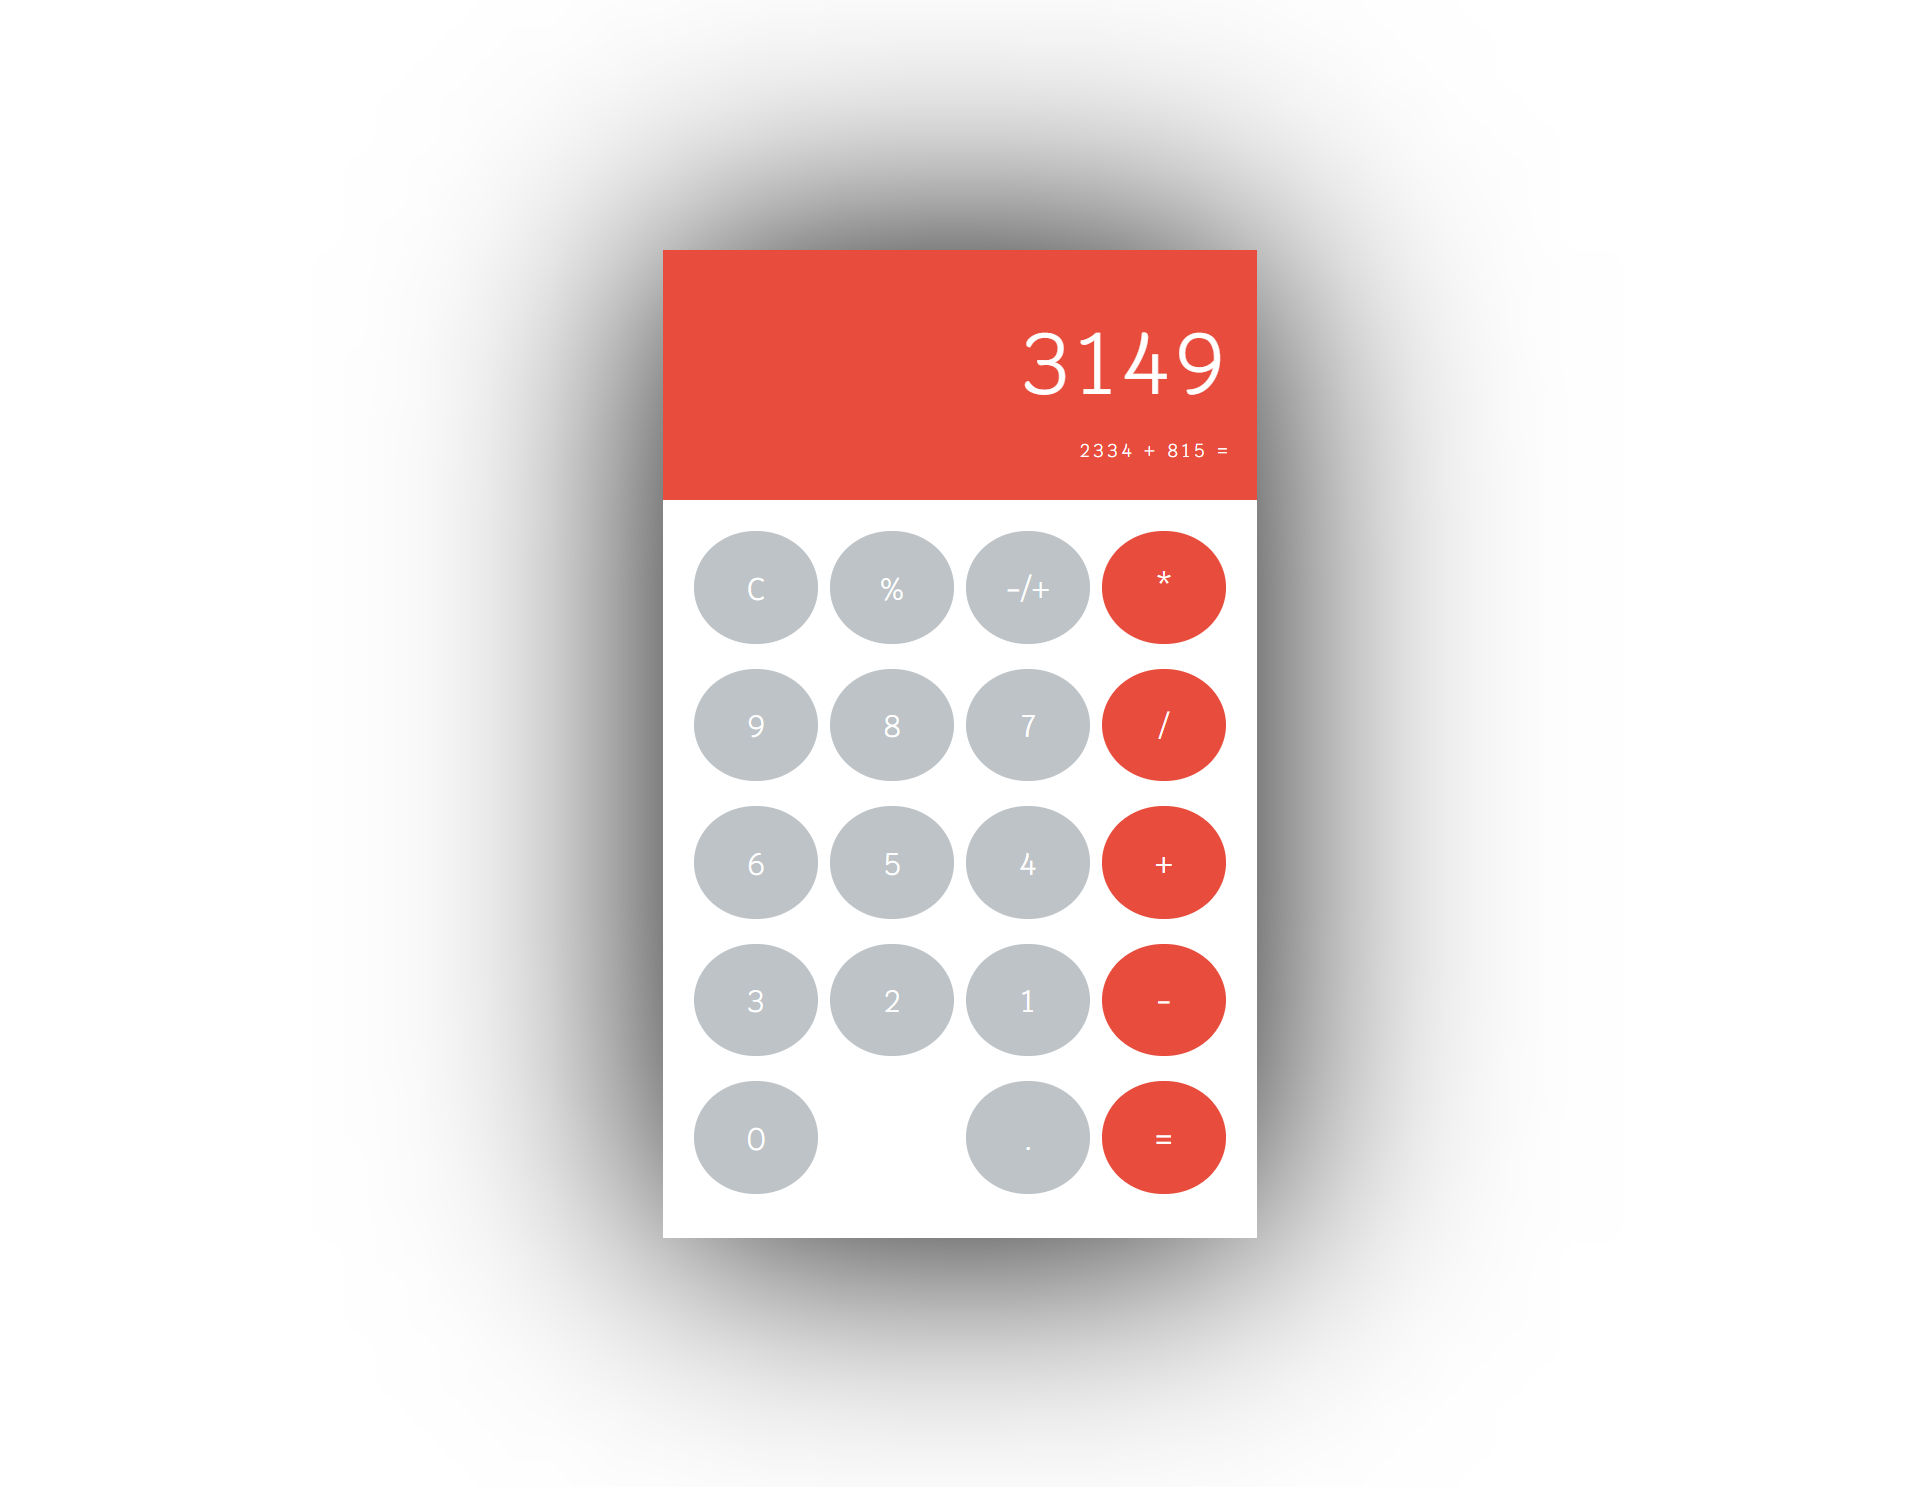
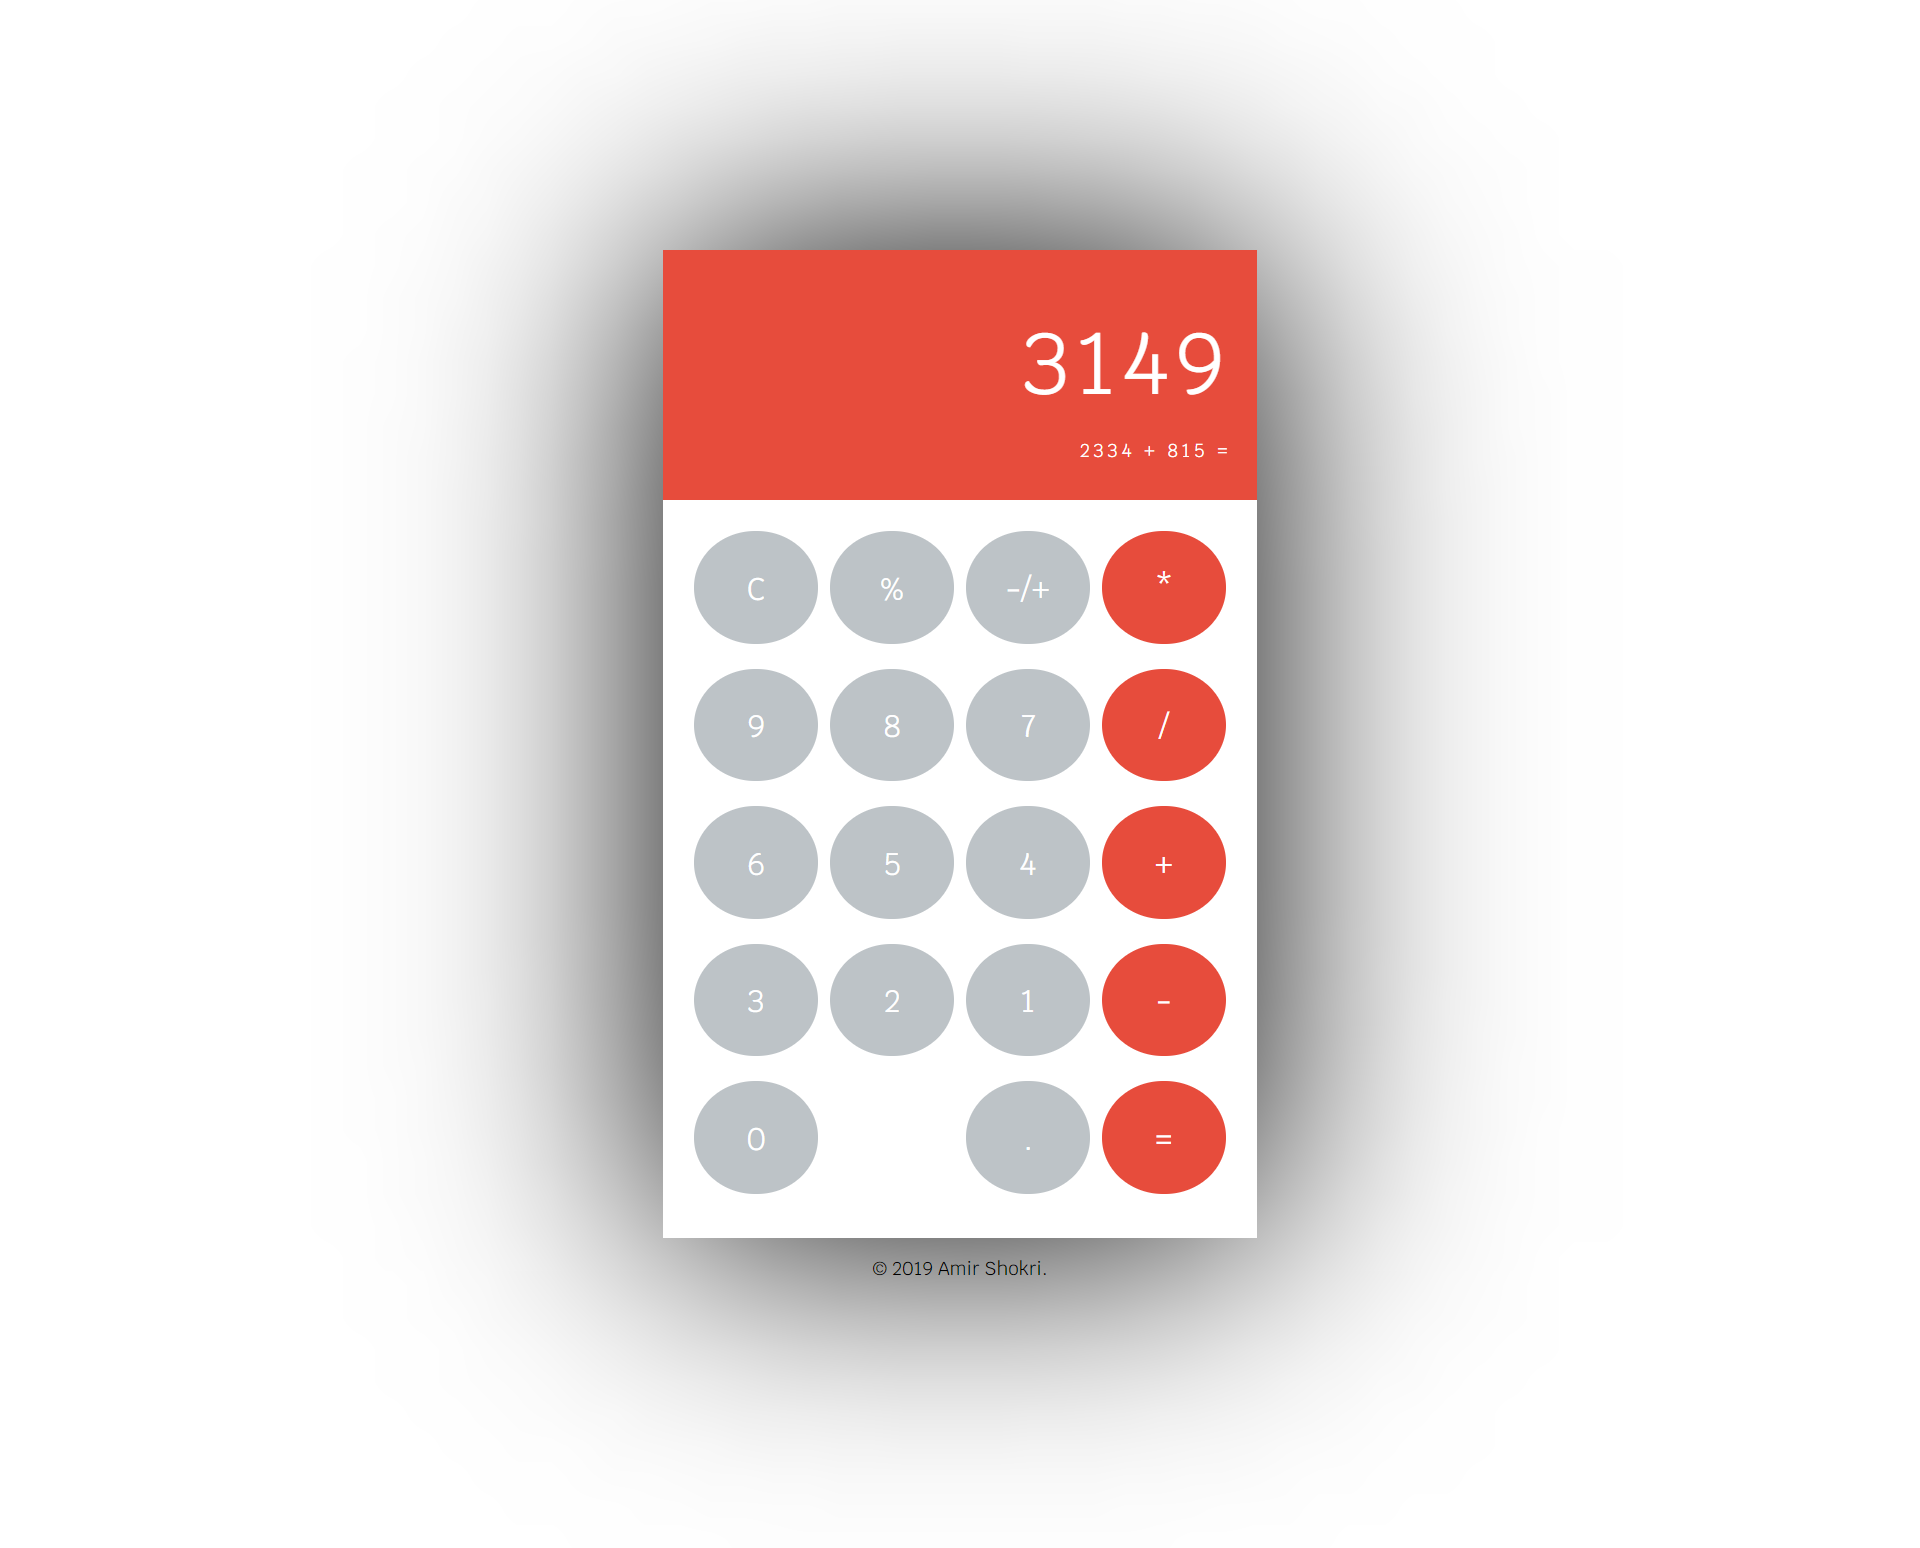
commit #9
create project navigation in index.html

Changed region(s): [[0.3438, 0.2165, 0.6562, 0.928], [0.3438, 0.1547, 0.6562, 0.1856]]

diff --git a/index.html b/index.html
@@ -14,6 +14,129 @@
 	<div class="ui-index left-to-right krub-regular d-block">
 
 		<!-- Page Content -->
+		<div class="container">
+			<div class="row">
+				<div class="col-12">
+					<h1><span class="fab fa-lx fa-github"></span> Daily-Ui</h1>
+					<hr />
+					<p>Daily Ui Challenge (100)</p>
+
+					<br />
+					<strong>Info :</strong>
+					<ul>
+						<li>Author : [<a href="mailto:amirsh.nll@gmail.com" title="Amir shokri">Amir shokri</a>]</li>
+						<li>My Dribbble : [<a href="https://dribbble.com/amirsh_nll" title="Dribbble">www.dribbble.com/amirsh_nll</a>]</li>
+						<li>Daily Ui : [<a href="http://www.dailyui.co/" title="Daily UI">www.dailyui.co</a>]</li>
+					</ul>
+
+					<br />
+					<strong>Challenge List :</strong>
+					<ul>
+						<li><a href="001_sign_up.html" title="Daily UI 001">1. Sign Up</a></li>
+						<li><a href="002_credit_card_checkout.html" title="Daily UI 002">2. Credit Card Checkout</a></li>
+						<li><a href="003_landing_page.html" title="Daily UI 003">3. Landing Page</a></li>
+						<li><a href="004_calculator.html" title="Daily UI 004">4. Calculator</a></li>
+						<li><a href="#" title="Daily UI 005">5. App Icon</a></li>
+						<li><a href="#" title="Daily UI 006">6. User Profile</a></li>
+						<li><a href="#" title="Daily UI 007">7. Settings</a></li>
+						<li><a href="#" title="Daily UI 008">8. 404 page</a></li>
+						<li><a href="#" title="Daily UI 009">9. Music Player</a></li>
+						<li><a href="#" title="Daily UI 010">10. Social Share</a></li>
+						<li><a href="#" title="Daily UI 011">11. Flash Message</a></li>
+						<li><a href="#" title="Daily UI 012">12. E-Commerce Shop</a></li>
+						<li><a href="#" title="Daily UI 013">13. Direct Messaging</a></li>
+						<li><a href="#" title="Daily UI 014">14. Countdown Timer</a></li>
+						<li><a href="#" title="Daily UI 015">15. On/Off Switch</a></li>
+						<li><a href="#" title="Daily UI 016">16. Pop-Up / Overlay</a></li>
+						<li><a href="#" title="Daily UI 017">17. Email Receipt</a></li>
+						<li><a href="#" title="Daily UI 018">18. Analytics Chart</a></li>
+						<li><a href="#" title="Daily UI 019">19. Leaderboard</a></li>
+						<li><a href="#" title="Daily UI 020">20. Location Tracker</a></li>
+						<li><a href="#" title="Daily UI 021">21. Home Monitoring Dashboard</a></li>
+						<li><a href="#" title="Daily UI 022">22. Search</a></li>
+						<li><a href="#" title="Daily UI 023">23. Onboarding</a></li>
+						<li><a href="#" title="Daily UI 024">24. Boarding Pass</a></li>
+						<li><a href="#" title="Daily UI 025">25. TV App</a></li>
+						<li><a href="#" title="Daily UI 026">26. Subscribe</a></li>
+						<li><a href="#" title="Daily UI 027">27. Dropdown</a></li>
+						<li><a href="#" title="Daily UI 028">28. Contact Us</a></li>
+						<li><a href="#" title="Daily UI 029">29. Map</a></li>
+						<li><a href="#" title="Daily UI 030">30. Pricing</a></li>
+						<li><a href="#" title="Daily UI 031">31. File Upload</a></li>
+						<li><a href="#" title="Daily UI 032">32. Crowdfunding Campaign</a></li>
+						<li><a href="#" title="Daily UI 033">33. Customize Product</a></li>
+						<li><a href="#" title="Daily UI 034">34. Car Interface</a></li>
+						<li><a href="#" title="Daily UI 035">35. Blog Post</a></li>
+						<li><a href="#" title="Daily UI 036">36. Special Offer</a></li>
+						<li><a href="#" title="Daily UI 037">37. Weather</a></li>
+						<li><a href="#" title="Daily UI 038">38. Calendar</a></li>
+						<li><a href="#" title="Daily UI 039">39. Testimonials</a></li>
+						<li><a href="#" title="Daily UI 040">40. Recipe</a></li>
+						<li><a href="#" title="Daily UI 041">41. Workout Tracker</a></li>
+						<li><a href="#" title="Daily UI 042">42. ToDo List</a></li>
+						<li><a href="#" title="Daily UI 043">43. Food/Drink Menu</a></li>
+						<li><a href="#" title="Daily UI 044">44. Favorites</a></li>
+						<li><a href="#" title="Daily UI 045">45. Info Card</a></li>
+						<li><a href="#" title="Daily UI 046">46. Invoice</a></li>
+						<li><a href="#" title="Daily UI 047">47. Activity Feed</a></li>
+						<li><a href="#" title="Daily UI 048">48. Coming Soon</a></li>
+						<li><a href="#" title="Daily UI 049">49. Notifications</a></li>
+						<li><a href="#" title="Daily UI 050">50. Job Listing</a></li>
+						<li><a href="#" title="Daily UI 051">51. Press Page</a></li>
+						<li><a href="#" title="Daily UI 052">52. Logo</a></li>
+						<li><a href="#" title="Daily UI 053">53. Header Navigation</a></li>
+						<li><a href="#" title="Daily UI 054">54. Confirm Reservation</a></li>
+						<li><a href="#" title="Daily UI 055">55. Icon Set</a></li>
+						<li><a href="#" title="Daily UI 056">56. Breadcrumbs</a></li>
+						<li><a href="#" title="Daily UI 057">57. Video Player</a></li>
+						<li><a href="#" title="Daily UI 058">58. Shopping Cart</a></li>
+						<li><a href="#" title="Daily UI 059">59. Background Pattern</a></li>
+						<li><a href="#" title="Daily UI 060">60. Color Picker</a></li>
+						<li><a href="#" title="Daily UI 061">61. Redeem Coupon</a></li>
+						<li><a href="#" title="Daily UI 062">62. Workout of the day</a></li>
+						<li><a href="#" title="Daily UI 063">63. Best of 2019</a></li>
+						<li><a href="#" title="Daily UI 064">64. Select User Type</a></li>
+						<li><a href="#" title="Daily UI 065">65. Notes Widget</a></li>
+						<li><a href="#" title="Daily UI 066">66. Statistics</a></li>
+						<li><a href="#" title="Daily UI 067">67. Hotel Booking</a></li>
+						<li><a href="#" title="Daily UI 068">68. Flight Search</a></li>
+						<li><a href="#" title="Daily UI 069">69. Trending</a></li>
+						<li><a href="#" title="Daily UI 070">70. Event Listing</a></li>
+						<li><a href="#" title="Daily UI 071">71. Schedule</a></li>
+						<li><a href="#" title="Daily UI 072">72. Image Slider</a></li>
+						<li><a href="#" title="Daily UI 073">73. Virtual Reality</a></li>
+						<li><a href="#" title="Daily UI 074">74. Download App</a></li>
+						<li><a href="#" title="Daily UI 075">75. Pre-Order</a></li>
+						<li><a href="#" title="Daily UI 076">76. Loading...</a></li>
+						<li><a href="#" title="Daily UI 077">77. Thank You</a></li>
+						<li><a href="#" title="Daily UI 078">78. Pending Invitation</a></li>
+						<li><a href="#" title="Daily UI 079">79. Itinerary</a></li>
+						<li><a href="#" title="Daily UI 080">80. Date Picker</a></li>
+						<li><a href="#" title="Daily UI 081">81. Status Update</a></li>
+						<li><a href="#" title="Daily UI 082">82. Form</a></li>
+						<li><a href="#" title="Daily UI 083">83. Button</a></li>
+						<li><a href="#" title="Daily UI 084">84. Badge</a></li>
+						<li><a href="#" title="Daily UI 085">85. Pagination</a></li>
+						<li><a href="#" title="Daily UI 086">86. Progress Bar</a></li>
+						<li><a href="#" title="Daily UI 087">87. Tooltip</a></li>
+						<li><a href="#" title="Daily UI 088">88. Avatar</a></li>
+						<li><a href="#" title="Daily UI 089">89. Terms of Service</a></li>
+						<li><a href="#" title="Daily UI 090">90. Create New</a></li>
+						<li><a href="#" title="Daily UI 091">91. Curated For You</a></li>
+						<li><a href="#" title="Daily UI 092">92. F.A.Q</a></li>
+						<li><a href="#" title="Daily UI 093">93. Splash Screen</a></li>
+						<li><a href="#" title="Daily UI 094">94. News</a></li>
+						<li><a href="#" title="Daily UI 095">95. Product Tour</a></li>
+						<li><a href="#" title="Daily UI 096">96. Currently In-Stock</a></li>
+						<li><a href="#" title="Daily UI 097">97. Giveaway</a></li>
+						<li><a href="#" title="Daily UI 098">98. Advertisement</a></li>
+						<li><a href="#" title="Daily UI 099">99. Categories</a></li>
+						<li><a href="#" title="Daily UI 100">100. Redesign Daily UI Landing Page1.</a></li>
+					</ul>
+
+				</div>
+			</div>
+		</div>
 
 	</div>
 

diff --git a/assets/css/layout.css b/assets/css/layout.css
@@ -21,6 +21,15 @@ div {
 	margin : 0;
 	padding: 0;
 }
+.ui-index .col-12 {
+	margin: 100px 0;
+}
+.ui-index li {
+	margin-bottom: 20px;
+}
+.ui-index li a {
+	font-weight: bold;
+}
 
 
 /* UI-001 */
@@ -291,6 +300,7 @@ div {
 	padding-top: 30px;
 	height: 90px;
 	border-radius: 100%;
+	cursor: pointer;
 }
 .ui-004 .key-indent {
 	padding: 5px;

diff --git a/004_calculator.html b/004_calculator.html
@@ -164,7 +164,7 @@
 					</div>
 				</div>
 
-			</div>
+			</div><p class="display-1-2 text-dark text-center">&copy; 2019 Amir Shokri.</p>
 		</div>
 
 	</div>

diff --git a/README.md b/README.md
@@ -3,7 +3,7 @@ Daily Ui Challenge (100)
 
 **Info :**
 
-* Author : Amir shokri
+* Author : Amir shokri(mailto:amirsh.nll@gmail.com)
 
 * My Dribbble : [www.dribbble.com/amirsh_nll](https://dribbble.com/amirsh_nll)
 
